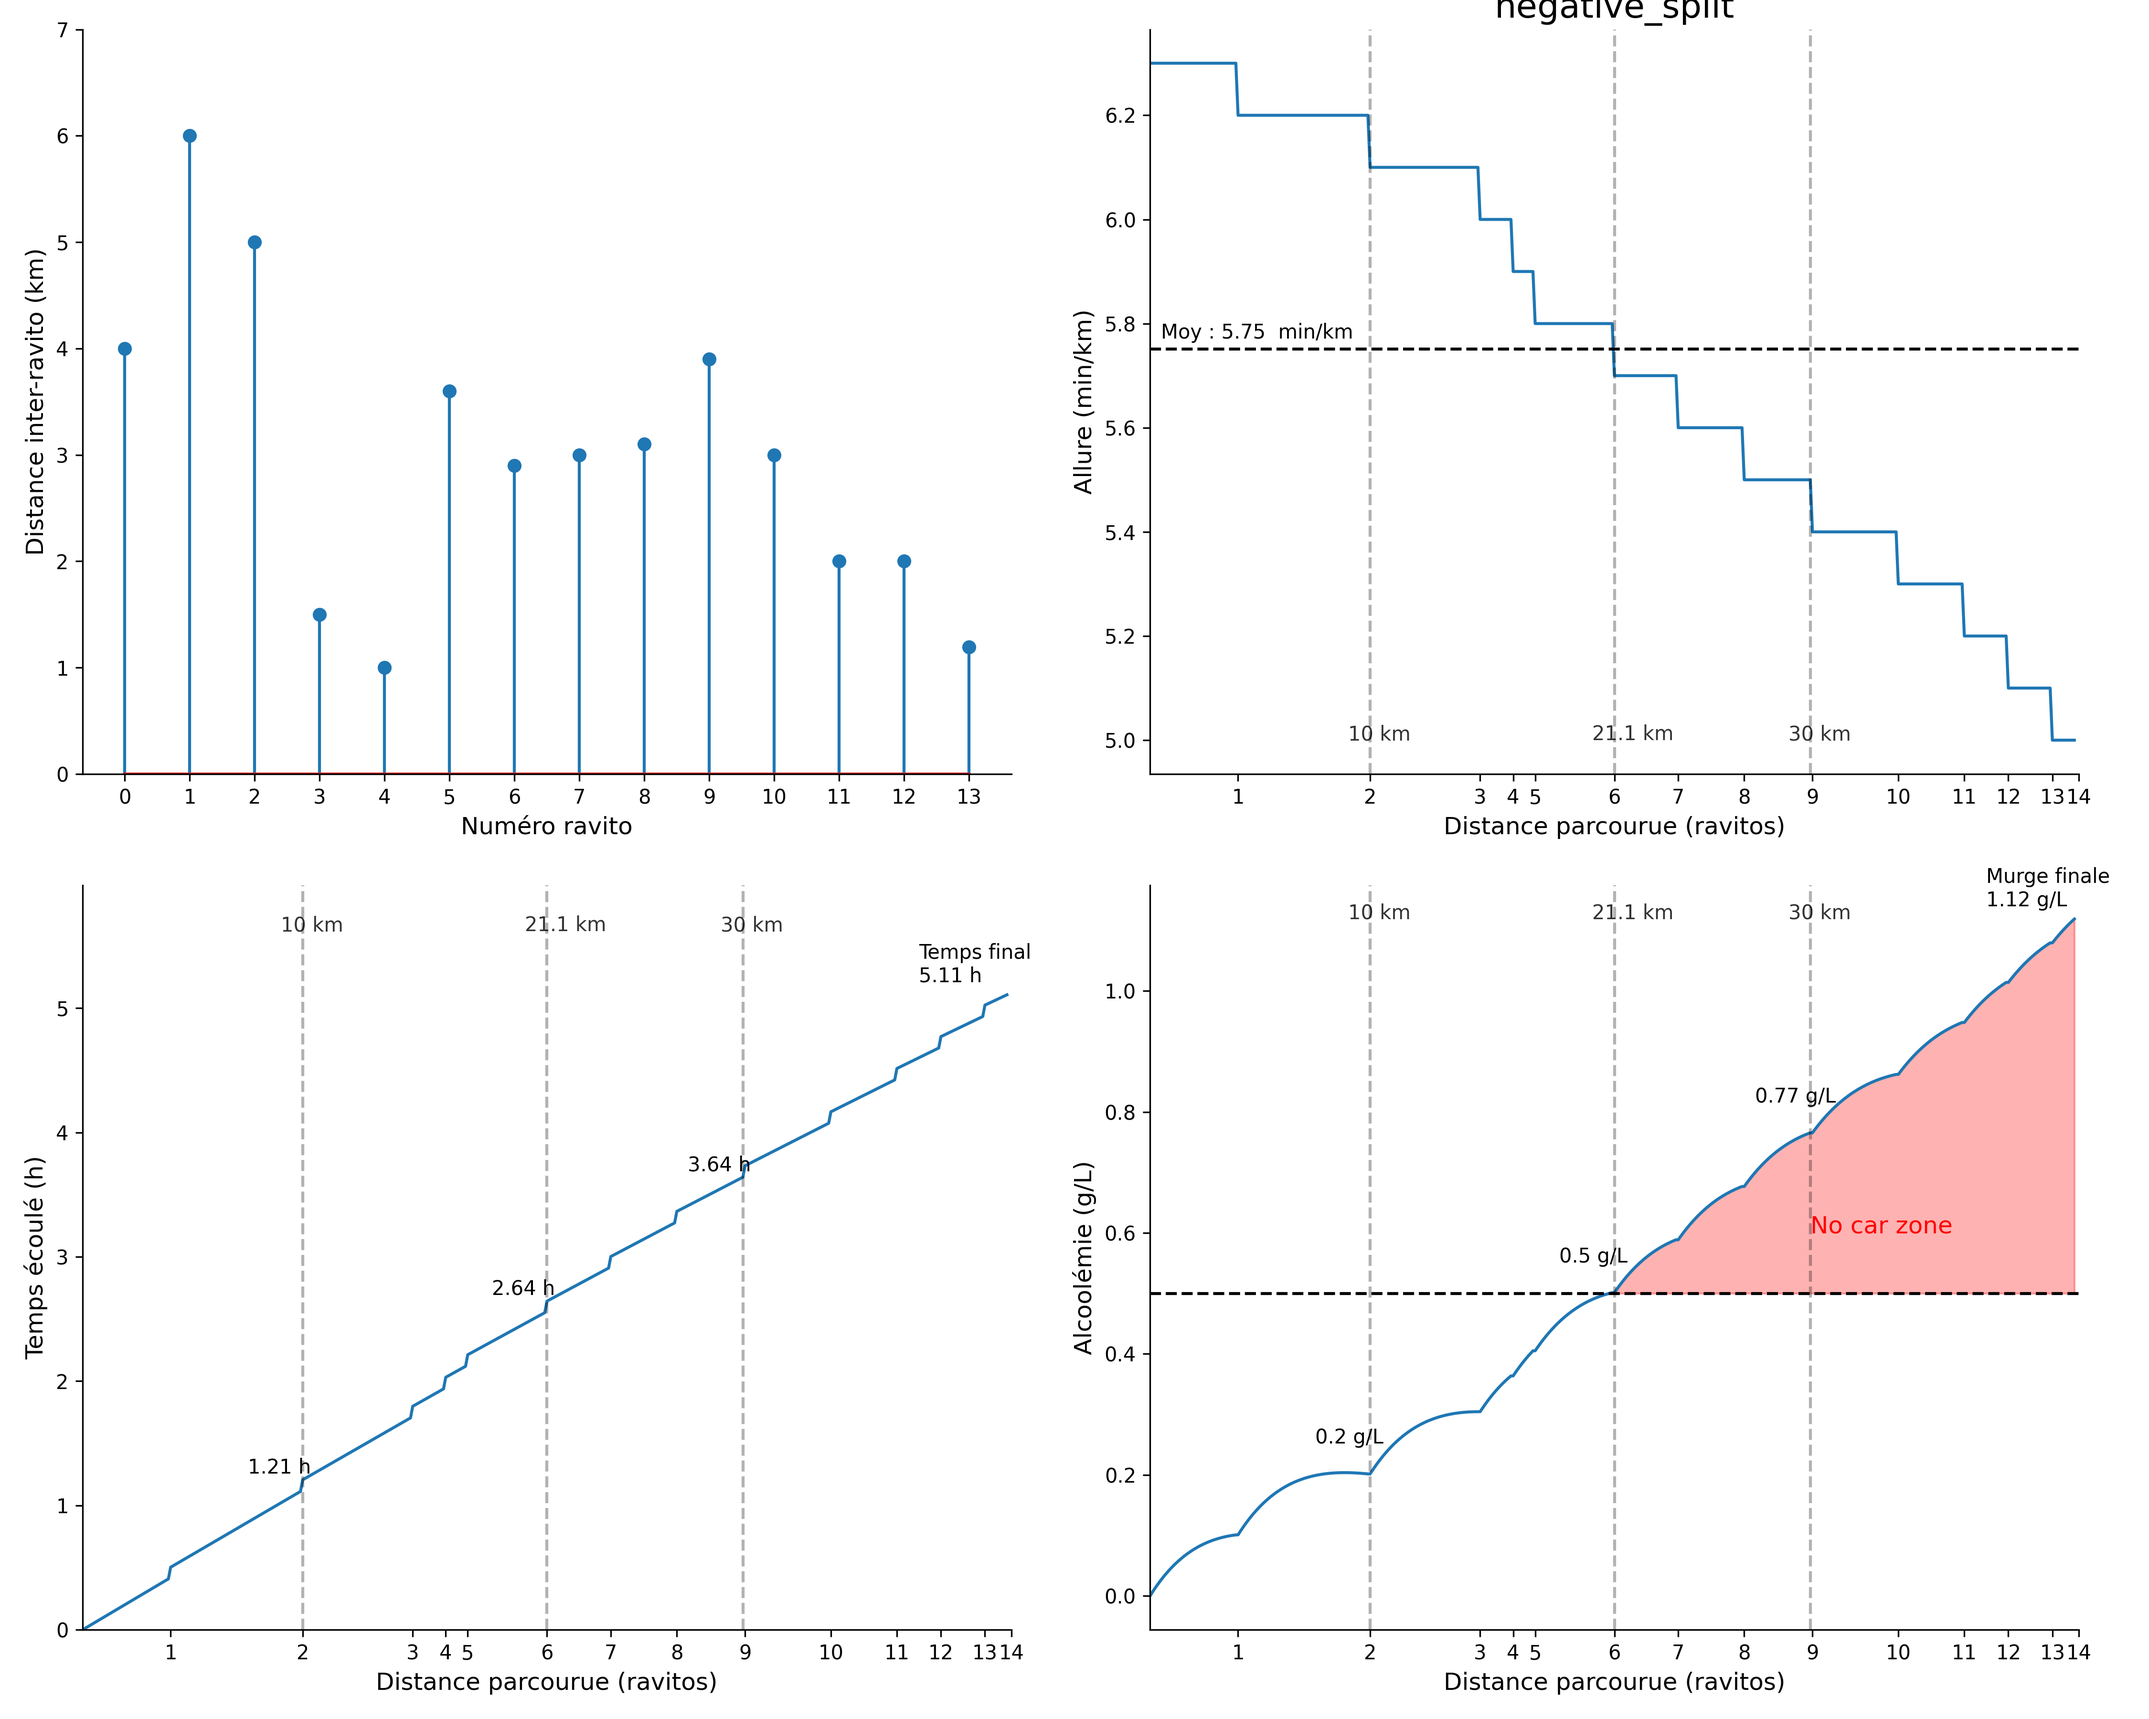
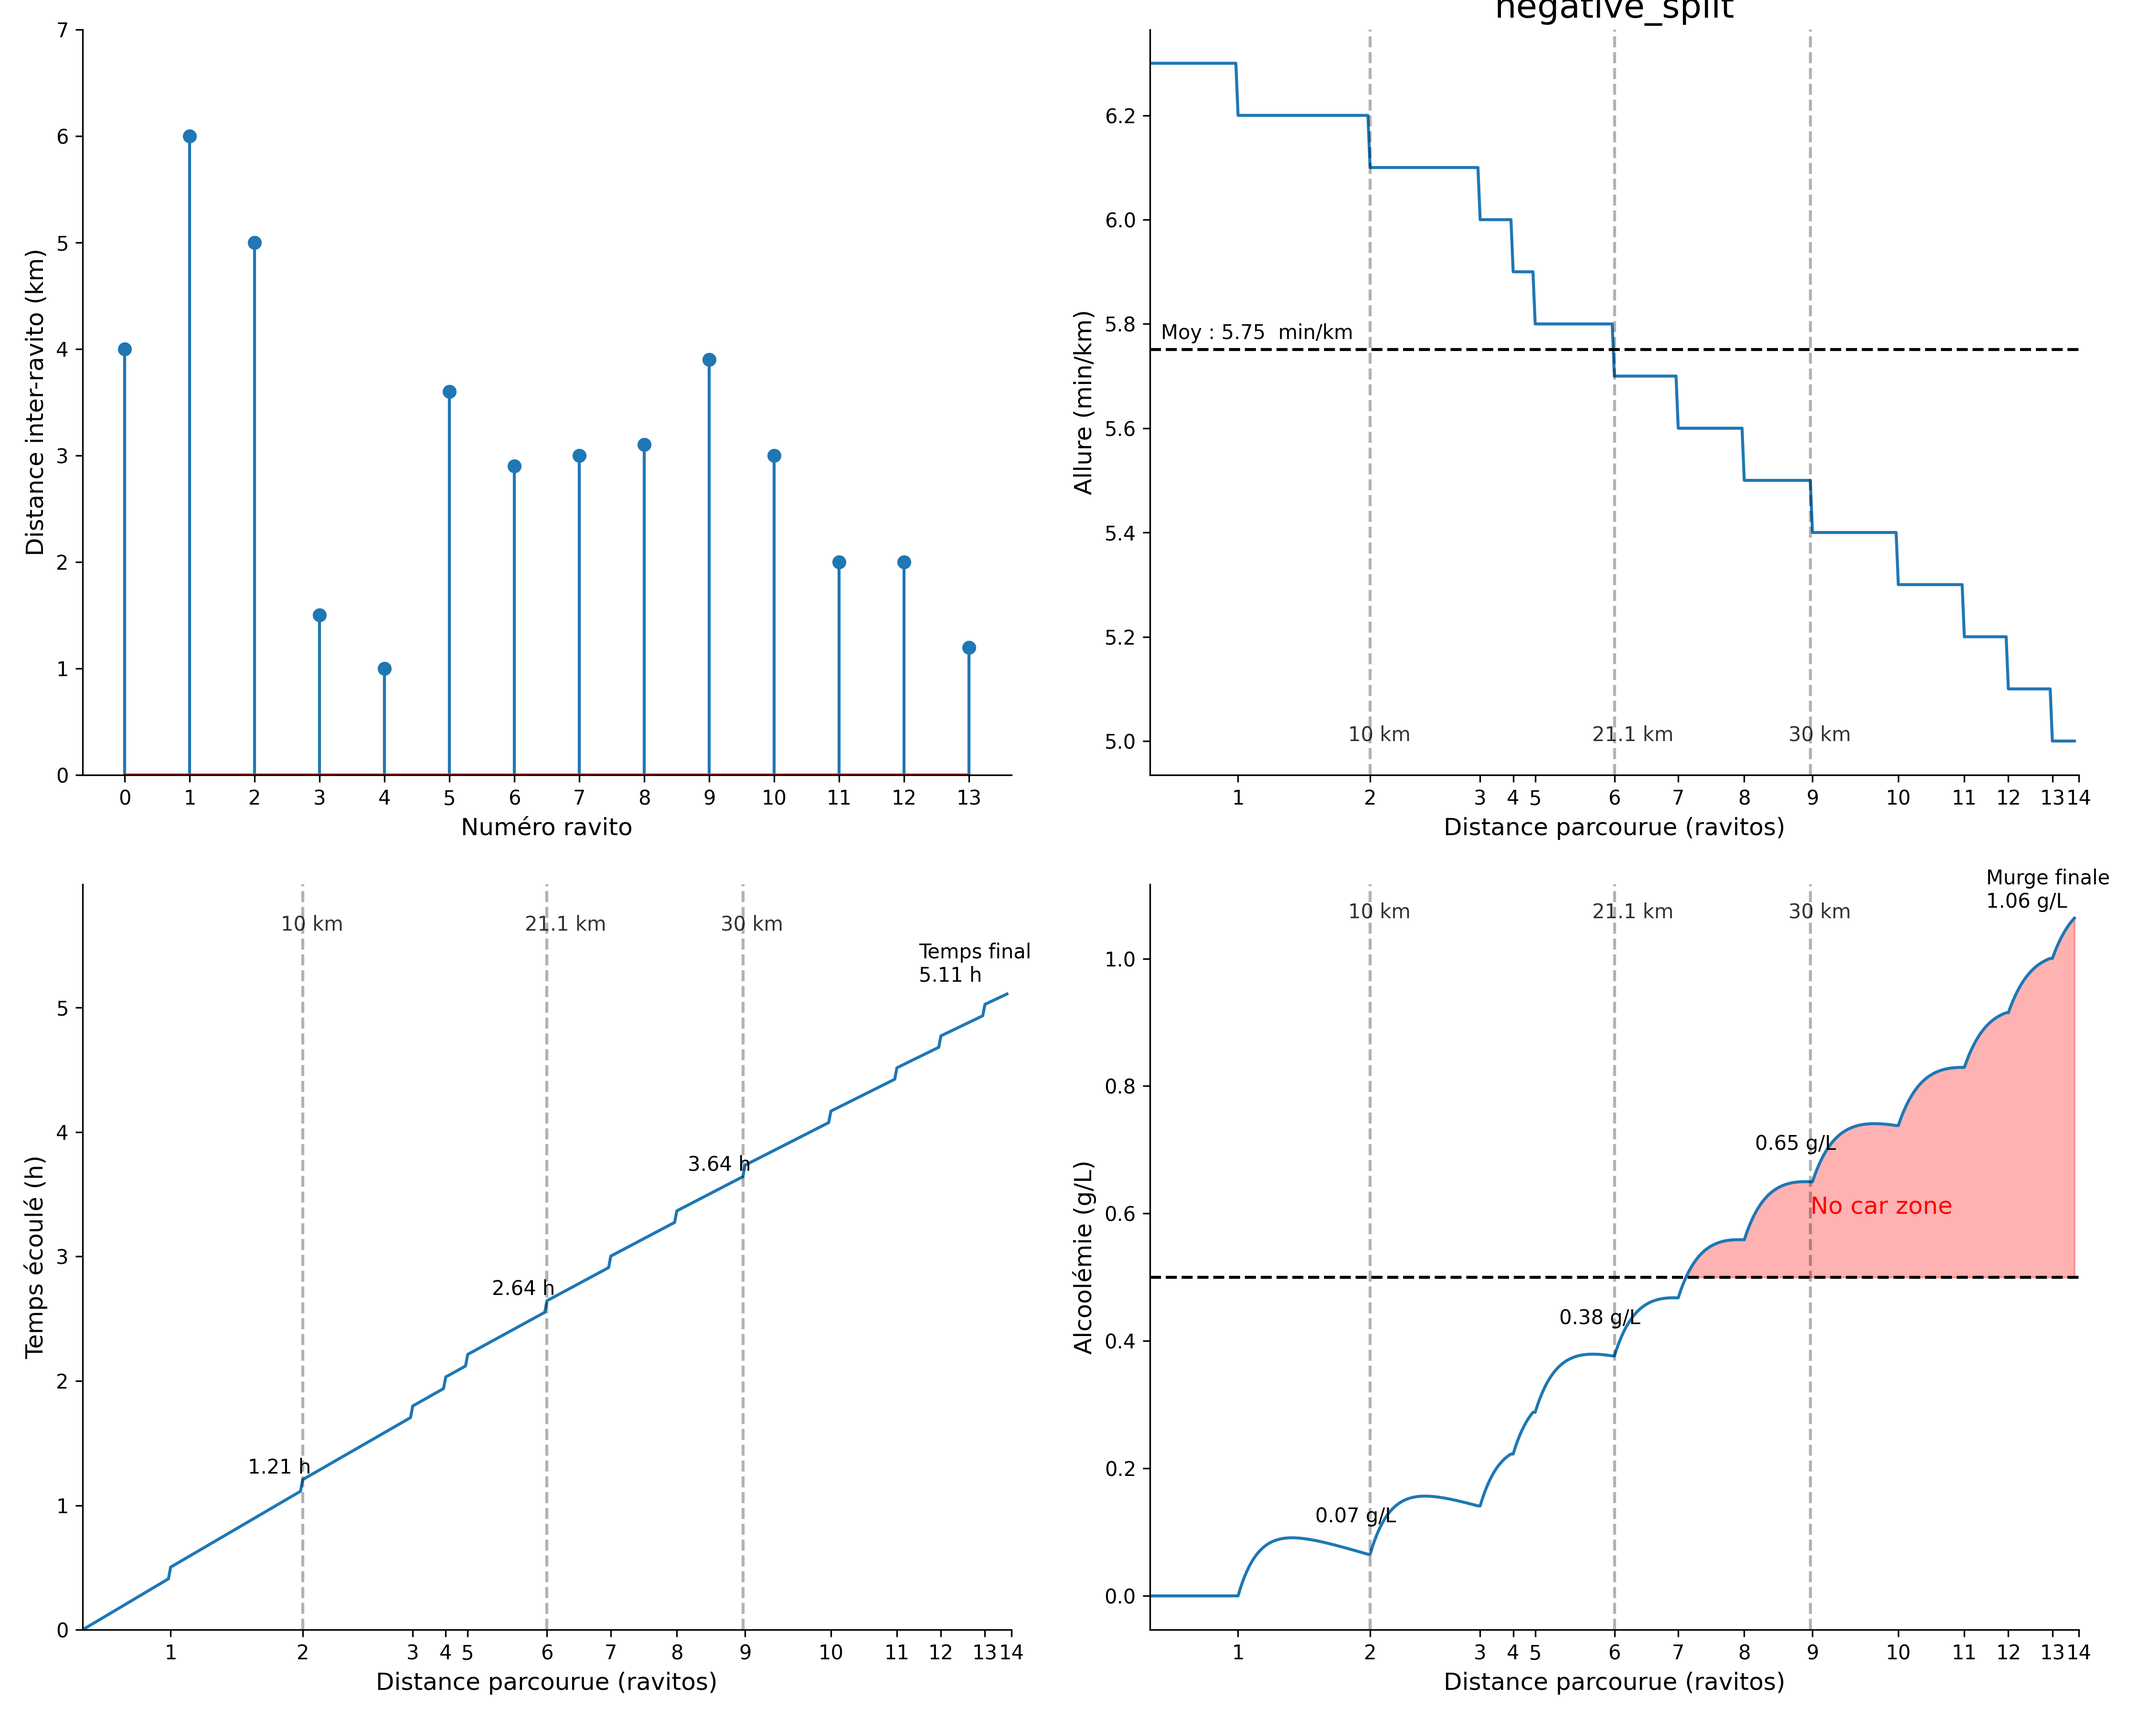
Modified alcohol modelling w/ decomposition into absorption/elimination

diff --git a/beaujolais_pacing.py b/beaujolais_pacing.py
@@ -10,7 +10,7 @@ ravito_coordinnates = np.array([4,10,15,16.5,17.5,21.1,24,27,30.1,34,37,39,41,42
 N_ravito = len(ravito_coordinnates) # Number of enjoyed ravitos
 T_ravito = 5 # mean time spent per ravito [min]
 V_ravito = 60 # mean consumption (degustation) per ravition [mL]
-bw = 80 #body weight
+bw = 65 #body weight
 
 
 ###############################################
@@ -29,10 +29,25 @@ def elapsed_time(list_v):
         res_T.append(res_T[-1] + dT)
     return np.array(res_T)
 
+
 def alcoolemie(t, V):
     b = 1/30
     a = b * np.exp(1) * V * 0.12 * 0.8 / (0.7 * bw)
     return float(a * t * np.exp(-b * t))
+
+def absorption(t, V):
+    b = 1/30 * 5
+    a = V * 0.12 * 0.8 / (0.7 * bw)
+    return float(a * (1 - np.exp(-b * t)))
+
+def elimination_lineaire(t):
+    alpha = 0.1 / 60
+    return float(-alpha*t)
+
+def elimination_exp(t, V):
+    b = 1/30 * 5
+    a = V * 0.12 * 0.8 / (0.7 * bw)
+    return float(a * (1 - np.exp(-b * t)))
 
 def effect_one_ravito(t_ravito, time, V):
     return np.array([alcoolemie(t-t_ravito, V) if t >= t_ravito else 0 for t in time])
@@ -52,10 +67,12 @@ def alcohol_level(ravito_coordinnates, list_v, V_ravito):
     t_ref = 0
     res_C_ref = 0
     for i, t_i in enumerate(running_time):
-        if X[i] in ravito_coordinnates: # reset alcohol computation with new offset at each ravito
-            t_ref = t_i
-            res_C_ref = res_C[i-1]
-        res_C[i] = alcoolemie(t_i-t_ref, V_ravito)+res_C_ref
+        if X[i] >= ravito_coordinnates[0]:
+            if X[i] in ravito_coordinnates: # reset alcohol computation with new offset at each ravito
+                t_ref = t_i
+                res_C_ref = res_C[i-1]
+            #res_C[i] = alcoolemie(t_i-t_ref, V_ravito)+res_C_ref
+            res_C[i] = res_C_ref + absorption(t_i-t_ref, V_ravito) + elimination_lineaire(t_i-t_ref)
     return res_C
 
     
@@ -119,6 +136,7 @@ def plot_pacing(list_v, name="pacing_plan"):
     fig.tight_layout()
     axs[0,1].set_title(name,fontsize='xx-large')
     plt.savefig(name+'.png', dpi=300)
+    #plt.show()
 
 ###############################################
 ################# STRATEGY 1 ##################
